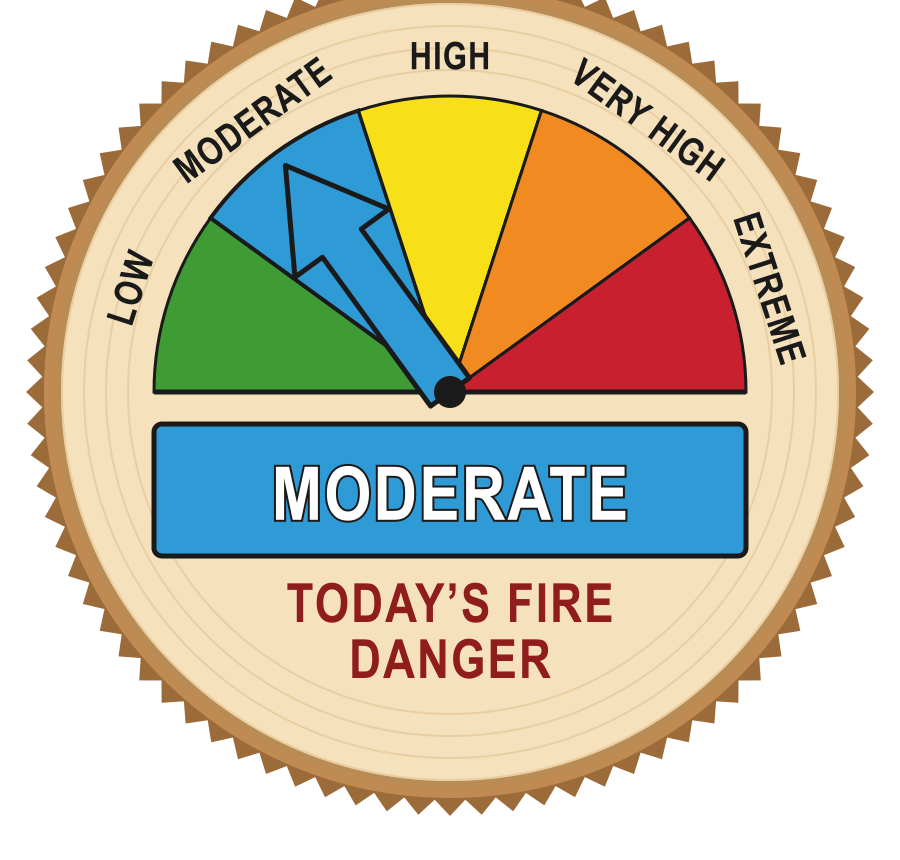
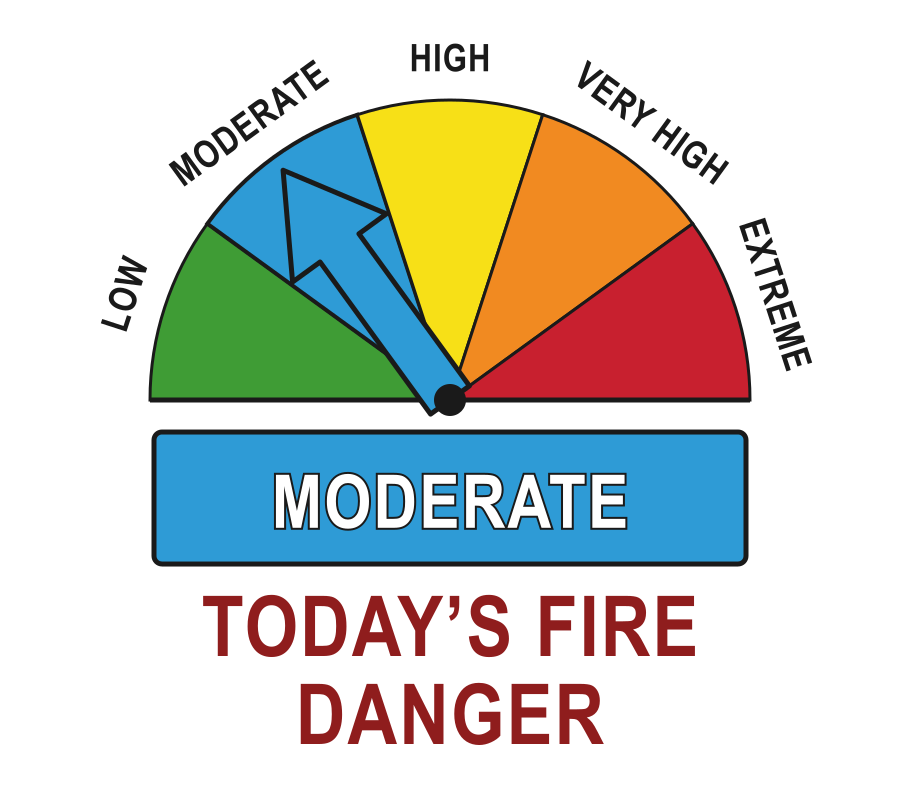
The fire danger signs lose the wood round
The sawn edge and the tan disc were carried over from the roadside sign,
where the board is literally a slice of wood. On a web page, a slide or a
flyer that disc is just a beige rectangle that matches nothing behind it.

Gone, and the background is transparent, so the sign drops onto white, onto
the site's cream, or onto a photograph without a patch around it.

"Today's fire danger" is set half again as large. It is the line read from
across a room, and at the old size the gauge was shouting over it.

diff --git a/scripts/fire-danger-signs.py b/scripts/fire-danger-signs.py
@@ -5,9 +5,12 @@
 
 Writes src/img/fire-danger-<level>.svg and a PNG beside each one.
 
-The familiar roadside sign is a wood round with a five-segment gauge and a
-pointer. This is our own drawing of that idea: no mascot, no agency marks,
-nothing lifted from anybody's artwork -- shapes and text we generate here.
+The familiar roadside sign is a five-segment gauge with a pointer. This is our
+own drawing of that idea: no mascot, no agency marks, nothing lifted from
+anybody's artwork -- shapes and text we generate here.
+
+The background is transparent. The sign has to sit on a web page, a slide and
+a printed flyer, and a tan disc behind it only ever matches one of them.
 
 The colors are the National Fire Danger Rating System's own, and they are in
 the order the public already reads them. Color is never the only thing saying
@@ -31,13 +34,11 @@ LEVELS = [
     ("extreme", "EXTREME", "#c8202f", "#ffffff"),
 ]
 
-W, H = 900, 860
-CX, CY = 450, 392          # center of the gauge, and of the wood round
-R_BARK = 424               # outside of the bark
-R_WOOD = 392               # the cut face
-R_ARC = 296                # outside of the colored gauge
-R_LABEL = 336              # where the words around the arc sit
-BANNER_TOP = 424
+W, H = 900, 800
+CX, CY = 450, 400          # center of the gauge
+R_ARC = 300                # outside of the colored gauge
+R_LABEL = 342              # where the words around the arc sit
+BANNER_TOP = 432
 
 FONT = "Oswald, 'Arial Narrow', 'Helvetica Neue', Arial, sans-serif"
 
@@ -53,17 +54,6 @@ def wedge(i):
     x0, y0 = polar(R_ARC, a0)
     x1, y1 = polar(R_ARC, a1)
     return f"M {CX:.1f} {CY:.1f} L {x0:.1f} {y0:.1f} A {R_ARC} {R_ARC} 0 0 1 {x1:.1f} {y1:.1f} Z"
-
-
-def bark_ring():
-    """A sawn edge: the bark drawn as a ring of shallow teeth."""
-    from math import cos, sin, radians
-    teeth, pts = 84, []
-    for t in range(teeth * 2):
-        deg = 360 * t / (teeth * 2)
-        r = R_BARK if t % 2 == 0 else R_BARK - 16
-        pts.append(f"{CX + r * cos(radians(deg)):.1f},{CY + r * sin(radians(deg)):.1f}")
-    return " ".join(pts)
 
 
 def sign(slug, label, color, ink, index):
@@ -91,23 +81,9 @@ def sign(slug, label, color, ink, index):
             f'font-size="38" font-weight="{weight}" fill="{fill}" letter-spacing="1">{name}</text>'
         )
 
-    # Grain: a few arcs across the cut face, ended before the gauge so they
-    # read as wood rather than as more dials.
-    grain = "\n".join(
-        f'        <circle cx="{CX}" cy="{CY}" r="{r}" fill="none" stroke="#e0c08d" '
-        f'stroke-width="2" opacity=".55" />'
-        for r in range(R_ARC + 26, R_WOOD, 22)
-    )
-
     return f'''<svg xmlns="http://www.w3.org/2000/svg" viewBox="0 0 {W} {H}" width="{W}" height="{H}"
      role="img" aria-labelledby="t-{slug}">
     <title id="t-{slug}">Today's fire danger: {label}</title>
-
-    <!-- The round -->
-    <polygon points="{bark_ring()}" fill="#9c6b3a" />
-    <circle cx="{CX}" cy="{CY}" r="{R_BARK - 18}" fill="#c08b52" />
-    <circle cx="{CX}" cy="{CY}" r="{R_WOOD}" fill="#f5e1bb" stroke="#b98c56" stroke-width="6" />
-{grain}
 
     <!-- The gauge. Every level is drawn; the one in force is the one at full
          strength, so the sign reads at a glance and still lists the scale. -->
@@ -136,10 +112,10 @@ def sign(slug, label, color, ink, index):
           stroke="{'#1a1a1a' if ink == '#ffffff' else 'none'}" stroke-width="{4 if ink == '#ffffff' else 0}"
           paint-order="stroke" letter-spacing="2">{label}</text>
 
-    <text x="{CX}" y="{BANNER_TOP + 198}" text-anchor="middle" font-family="{FONT}"
-          font-size="54" font-weight="700" fill="#8f1d1d" letter-spacing="2">TODAY&#8217;S FIRE</text>
-    <text x="{CX}" y="{BANNER_TOP + 254}" text-anchor="middle" font-family="{FONT}"
-          font-size="54" font-weight="700" fill="#8f1d1d" letter-spacing="2">DANGER</text>
+    <text x="{CX}" y="{BANNER_TOP + 224}" text-anchor="middle" font-family="{FONT}"
+          font-size="84" font-weight="700" fill="#8f1d1d" letter-spacing="2">TODAY&#8217;S FIRE</text>
+    <text x="{CX}" y="{BANNER_TOP + 312}" text-anchor="middle" font-family="{FONT}"
+          font-size="84" font-weight="700" fill="#8f1d1d" letter-spacing="2">DANGER</text>
 </svg>
 '''
 
